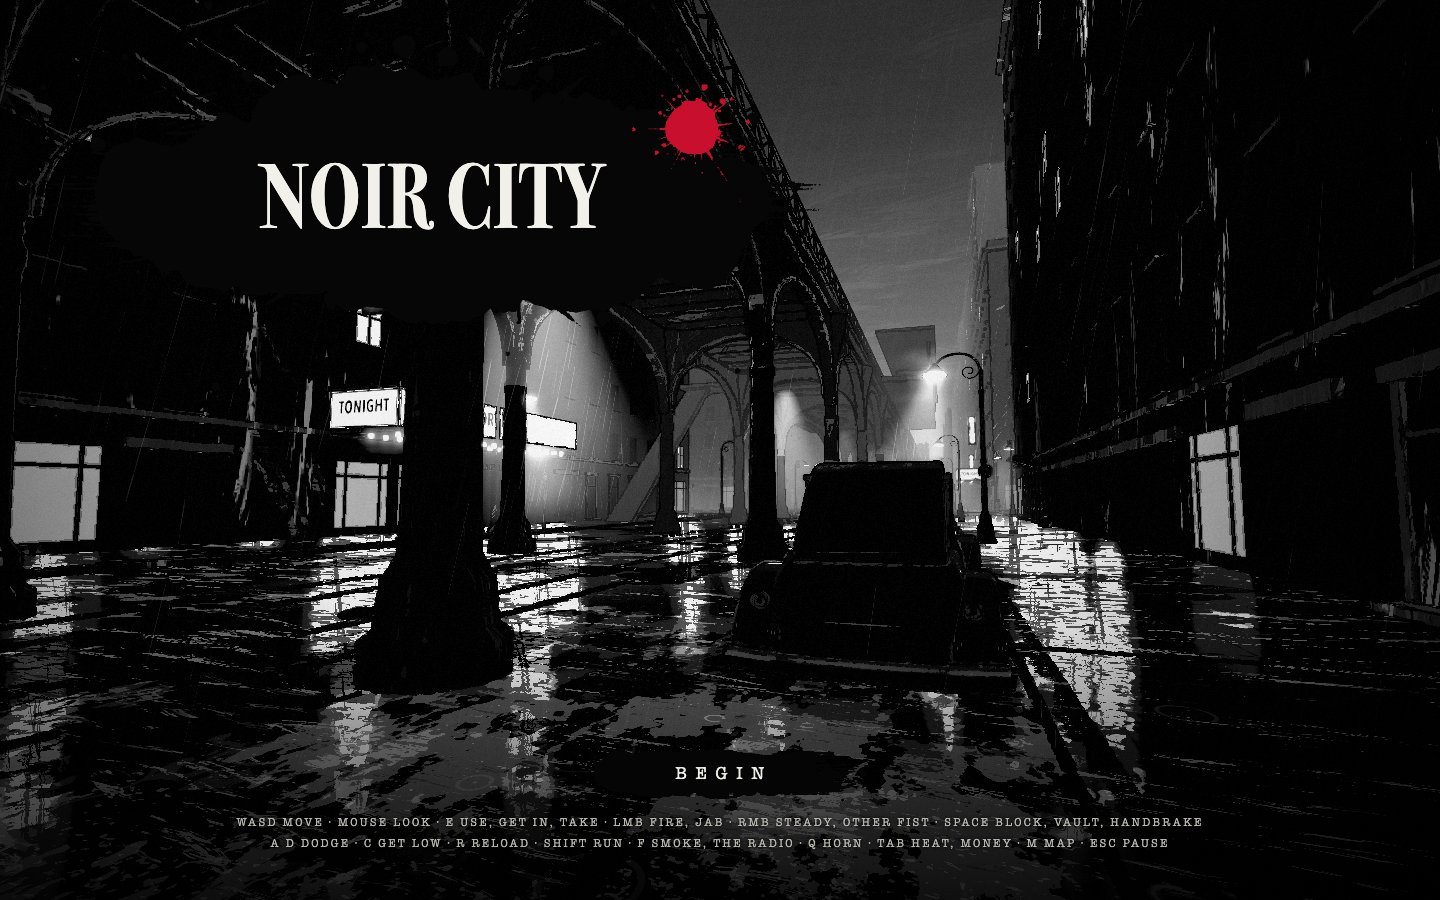
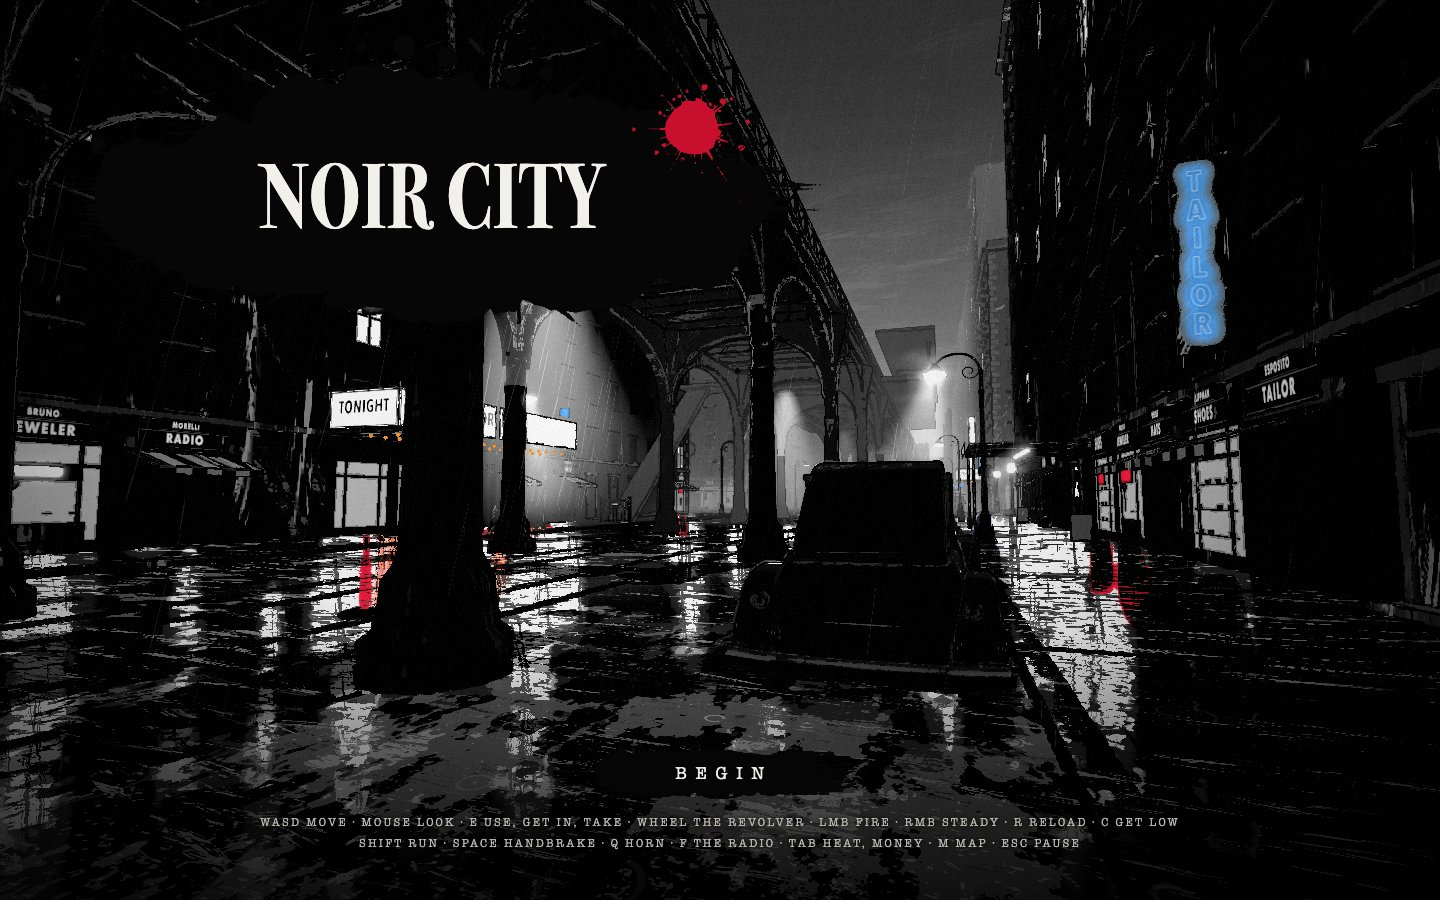
O7: the title's golden frame re-accepted, named: the city at the kerb under the el (it was the old diner street behind NOIR CITY), the keys line true of the city as built; review frame 1 re-made; NIGHT.md: game.things, game.money, the revolver, the aim help

diff --git a/docs/reports/O7.md b/docs/reports/O7.md
@@ -2,11 +2,14 @@
 
 Branch `ow/O7-night`, port 5377. Brief: `docs/briefs/O7_NIGHT.md`. The
 seams for every other lane: **`docs/seams/NIGHT.md`**. This is the FIRST pass
-of O7, launched while O2, O3, O4, O5, O6, O1b and O8 build beside it: the
-night is built against the seams their briefs name, with a stand-in of its
-own for each seam that has not landed (§5). The brief's §6 and §7 (the
-whole-game hunt over every system, the fps table, the documents) are the
-SECOND pass, when every system is in main (§7 Left).
+of O7 (two sessions: the second continued the first after it was cut off),
+built while O2, O3, O5 and O8 build beside it: the night is built against the
+seams their briefs name, with a stand-in of its own for each seam that has
+not landed (§5). In main and merged into this branch: O1 (the city), O4
+(combat), O6 (smash), O1b (the streets). The brief's §6 whole-game hunt and
+§7 "As built" are done here as far as main allows (the havoc play's first
+part, the pad through what exists, README); the rest waits for O2, O3, O5,
+O8 (§7 Left).
 
 ---------------------------------------------------------------------------
 ## 1. What the user should feel
@@ -29,8 +32,14 @@ fades with the door; the city hums and calls far off (the gasworks, the
 river, the markets, a ship, the Hill's bell on the hour, a siren a long way
 away). Into a car at no heat the night is kept, quietly (`saved`), and
 CONTINUE puts me back in that seat. Things to find: the el's stairs (ride
-the loop up front, off at any station), the phone boxes (a car brought for
-$50), the wanted board by the police headquarters (three faces a night).
+the loop up front, off at any station; chased onto it while they search, I
+am lost at the next station), the phone boxes (a car brought for $50), the
+wanted board by the police headquarters (three faces a night). The revolver
+is under my coat from the first second: the wheel (the pad's d-pad left /
+right) draws it, LMB fires, and the city answers the shot within the second
+(the shields, `Lose them.`, the paper's SHOTS FIRED); a lamp's head shot
+out pops and goes dark (O6). The title's keys are the city's as built, one
+line for the keys and one for the pad.
 
 ## 2. What exists
 
@@ -48,7 +57,8 @@ $50), the wanted board by the police headquarters (three faces a night).
 | `src/night/phone.js` | the phone box |
 | `src/night/bounty.js` | the wanted board (the board's mesh by the HQ's door, the card, the men, the pay) |
 | `src/night/standins.js` | the stand-ins (§5) and the debug bed (`?nightbed=1`) |
-| shared, marked `[O7]` | `src/main.js` (the night made, the city title at load, `night.frame`, the hold, the settings' sound), `src/game/Game.js` (`titleCam`; `save.load` and `night:start` in `start`), `src/game/SceneManager.js` (its writes are not saves: `{ scene: true }`), `src/scenes/city.js` (CONTINUE's place in the roam setup; a save's car kind), `src/input/Pad.js` (the touchpad is Tab; the d-pad's right is the radio in the car), `src/input/glyphs.js` (F in the car is the d-pad's right; the pad's keys line with map, heat and money, radio), `src/ui/Hud.js` (the settings' sound, the sound hint's text), `src/debug/Shots.js` (`shot=title` is the city's) |
+| `src/night/things.js` | `game.things` (start / line / end: the line, the mark, the money, the news, the night's record) and `game.money` (add / take on O4's wallet): `docs/THINGS_TO_DO.md`'s seams |
+| shared, marked `[O7]` | `src/main.js` (the night made, the city title at load, `night.frame`, the hold, the settings' sound), `src/game/Game.js` (`titleCam`; `save.load` and `night:start` in `start`), `src/game/SceneManager.js` (its writes are not saves: `{ scene: true }`), `src/scenes/city.js` (CONTINUE's place in the roam setup; a save's car kind), `src/input/Pad.js` (the touchpad is Tab; the d-pad's right is the radio in the car), `src/input/glyphs.js` (F in the car is the d-pad's right; the pad's keys line with map, heat and money, radio), `src/ui/Hud.js` (the settings' sound, the sound hint's text), `src/debug/Shots.js` (`shot=title` is the city's); this session: `src/scenes/city.js` (the revolver drawn and put away on foot, the seat warmed under the fade even when the title compiled the city, `gunOut` / `holster`), `src/input/Pad.js` (the d-pad's wheel, the aim help `PAD.aim`), `src/input/glyphs.js` (`PAD_KEYS` true of the city, `WHEEL`), `src/ui/kit.js` + `lettering.js` (the wheel's glyph), `src/combat/money.js` (no second money line in the city), `src/stages/noircity/parts/items.js` (O1b's Tab card handed to the night's Tab in the city), `src/game/Save.js` (v3 keeps O4's `ammo`), `tools/play.mjs` (the pad's wheel on foot: the d-pad), `tools/lib/o4_guns.mjs` (by the pad, the aim help takes the hand's error) |
 
 ## 3. The proofs (by real input; headless, muted)
 
@@ -61,7 +71,12 @@ $50), the wanted board by the police headquarters (three faces a night).
 | `o7_el.json` | at the stair's foot `E  take the el`; up front, it runs; pulls in at the next station; `E  get off`: at its stair foot, the controls mine | see §3a |
 | `o7_phone.json` | no money: the phone clicks, nothing taken; $50: `E  call for a car  $50`, `A car is coming.`; the car at the kerb by the box out of sight, `Your car.`, its ring; in: the line and the ring gone | see §3a |
 | `o7_bounty.json` | `E  the wanted board`: WANTED, three posters, the game held; E: back; the first man on his corner; the revolver and real clicks take him down; `E  collect  $150`: paid, the card | see §3a |
-| `o7_pad.json` | the pad alone: X on BEGIN; the touchpad: Tab; d-pad down: the map (held), again: closed; square: in; d-pad right: the radio; square: out, the radio gone | see §3a |
+| `o7_pad.json` | the pad alone: X on BEGIN; the touchpad: Tab; d-pad down: the map (held), again: closed; square: in; d-pad right: the radio; square: out, the radio gone; on foot d-pad right: the revolver drawn, R2 fires, d-pad left: put away | see §3a |
+| `o7_gun.json` | a new night: the revolver and 12 rounds, not in hand; the card `[WHEEL] the revolver`; the wheel: drawn (gun mode); LMB on the press, a lamp hit (O6's `shot` by `bullet`); the shields and `Lose them.` within 1.5 s; R reloads from the coat; the wheel: put away; drawn, E at the car: put away, in the seat | see §3a |
+| `o7_havoc.json` | the havoc play's first part: the revolver at Grand Ave's lamps (a head shot out: dark), the shot answered (two shields, `Lose them.`), the paper's SHOTS FIRED; into the car with the heat on (the gun away, no autosave: `heat`); off the slipway: `The river took it.`, the quay with a car, the controls mine, the heat's line kept; the search | see §3a |
+| `o7_pad_draw.json` | O4's merge's ask: the gun drawn in a fist fight by the pad alone (d-pad right): the fight over, the driver runs, 0 key or mouse events | see §3a |
+| `o7_latency.json` | the feel: M, Tab, F and a second E, key to the first frame of the act (the first E logged) | see §3a |
+| O4's `pad_1v2.json`, `pad_street.json` | the pad's medium hands in the 1v2 and the street shootout (the brief: the aim help measured by them) | see §3a |
 
 ### 3a. Results on the final code
 (filled in below as the plays run)
@@ -77,6 +92,7 @@ $50), the wanted board by the police headquarters (three faces a night).
 | `Clear.` | the heat falls to 0 | 2.6 s later, giving back the thing taken up, or nothing |
 | `A car is coming.` | the phone box's call ($50) | the car at the kerb (`Your car.`) |
 | `Your car.` | the phone's car at the kerb (its ring on the minimap and the map) | in it, or a minute |
+| any lane's thing, by `game.things.start(id, { line, at })` | the thing taken up at its place | `game.things.end(id, ...)`; under the heat's line while there is heat; a scene's entry (the quay, the hospital) keeps the heat's line |
 | a fare's, a race's, a bout's (O2, O4) | their lane's `hud.objective(text)` | their `hud.objective(null)`; under the heat's line while there is heat |
 | O1's warnings `The river.`, `The bridge is up.` | the kit's `hud.warn` (not the line) | as O1 |
 
@@ -91,10 +107,11 @@ Nothing else writes a line in the city; no line says what to do next.
 | `city_map` | `[M] the map` | after 25 s of driving, no warning | none | O1 |
 | `night_tab` | `[TAB] heat and money` | the first money, or the first `Clear.`, in a quiet second | none | O7 |
 | `night_radio` | `[F] the radio` | after 30 s at the wheel, no heat, no warning | none | O7 |
+| `city_gun` | `[WHEEL] the revolver` (the wheel's own glyph; the pad's d-pad right) | on foot after 4 s, no card up, not at the car, no heat, no warning | none (drawn, or into the car, takes it down) | O7 |
 | (O4) `fire`, `steady`, `block`, `dodge`, `crouch` | the kit's and the fight's | at the first gun / fist fight | the kit's `teach.again` after two fails | O4 |
 | (O2) a hijack's | `[E] take the car` (expected) | the first driver's door | | O2 |
 
-Seven to nine in the whole game when every lane is in; none in danger (a
+Eight to ten in the whole game when every lane is in; none in danger (a
 warning takes a card down: city.js; the night's wait for no heat and no
 warning); none twice; no key as text (the prompts' keys are on their dab).
 The fails: the river (`The river took it.`, `Into the river.`: O1), the
@@ -126,6 +143,50 @@ arrest (`Arrested.`: O3), the fall (O4's hospital): their blacks name them.
 - **The bounty board's men** stand still on their corners until O3 (no
   brain: a gunman's brain in the open city with no gun of mine would kill
   me in seconds).
+
+## 6a. Found and fixed (this session, by playing cold after main moved)
+
+- **Main had moved** (O4's combat, O1b's streets): merged in. Three
+  conflicts (Save.js, Game.js, city.js): the v3 save keeps O4's `ammo`
+  (written, loaded, a new night's empty); a bed's purse (`?start=o4`) still
+  sets its money; the kerb warmed by O1b's dressing and a save's car kind.
+- **The money told twice**: O4's wallet emitted `money` and drew its own
+  `$ 60 + 10` line, and the save's setter emitted too. Now the setter's event
+  is the one the HUD counts, and the wallet's line is not drawn in the city
+  (the beds keep it).
+- **Two Tabs**: O1b's pocket card (its stand-in "until O7's HUD") and the
+  night's Tab both came up. In the city the night's Tab has the pockets'
+  lines (rounds, bottles, matchbooks); O1b's card stays for the beds.
+- **The matchbooks on the pause card were the stand-in's**: they are O1b's
+  six now (the bars' steps, `save.flags.matchbooks`), their names on the
+  covers; O5's ids join them.
+- **Two newses**: the night's news stand-in shadowed O1b's (its paper read
+  strings where O1b keeps records). Dropped; O1b's `newsOf` is the news.
+- **The first E into the car stalled a frame 126-160 ms**: the title's
+  backdrop compiles the city at load (`stage._compiled`), so city.js skipped
+  O1b's seat warm (keyed on the same flag) and `TailScreen` was made in the
+  E frame. The seat has its own flag now and the city's programs are run
+  again with the seat in (cached ones cost nothing): no program is made at
+  E any more. One long frame is still measured at the first E on this
+  loaded machine (75-140 ms, no new program; the second E is 13-31 ms):
+  Left.
+- **The title promised verbs the city does not have** (the cold play's
+  finding 2) and listed M twice: one line for the keys, one for the pad,
+  each true of the city as built; the fist fight's verbs come back on it
+  when O3 brings fights into the city.
+- **No gun in the city**, though the standard's man has a revolver under his
+  arm, the bounty board's men could only be taken down by a tool's equip, and
+  `LMB fire` was untrue: a new night gives the revolver and a dozen rounds,
+  the wheel draws it (the pad's d-pad left / right), into the car or the
+  river puts it away; the stand-in heat hears a shot (heat 2 within the
+  second); the bounty play draws it by the wheel now.
+- **The pad could not draw a gun in a fist fight** (O4's merge): the d-pad's
+  left / right are the wheel on foot with a gun of mine (`o7_pad_draw`).
+- **The heat's line vanished on the quay after the river** (a scene's entry
+  cleared it while the heat stood): kept now (`o7_havoc`).
+- **The el** loses a search at the next station (THINGS_TO_DO §6); **the
+  things' seams** (`game.things`, `game.money`) are in, the phone and the
+  bounty use them.
 
 ## 7. Left (most felt first)
 

diff --git a/docs/seams/NIGHT.md b/docs/seams/NIGHT.md
@@ -125,6 +125,45 @@ z, yaw }, car: { kind, x, z, yaw, damage } | null, inCar, hour } }`.
   on the man so the night sees him fall); **O5**: the board inside the
   station with the desk.
 
+## 5a. Things to do, any lane's: `game.things` and `game.money` (`src/night/things.js`)
+
+The seams of `docs/THINGS_TO_DO.md`. A thing is only ever started by its
+own place when the player walks up to it (nothing lists, nothing says go).
+
+```js
+G.things.start(id, { line, at })   // taken up: the line (under the heat's), the mark
+                                   // (at: { x, z } or () => { x, z }: the minimap's ring, the map's)
+G.things.line(id, text)            // the line changed (a lap, the place)
+G.things.end(id, { result, money, news, weight, where })
+                                   // put down: the line and the mark gone; money +/- through
+                                   // O4's wallet (the HUD counts it in); O1b's news.say;
+                                   // the night's record save.flags.night[id] = { result, hour }
+G.things.done(id)                  // that record or null (a cleared hideout stays cleared)
+G.things.active                    // Map id -> opts
+G.money.add(n, why)  G.money.take(n, why) -> bool  G.money.n   // O4's earn / pay
+```
+The phone's car and the bounty's pay use them. Events `things:start`,
+`things:end`.
+
+## 5b. The revolver under the coat (`src/scenes/city.js`, marked `[O7]`)
+
+A new night in the city (BEGIN) gives `save.inventory` the revolver and
+`save.ammo` `{ revolver: 12, revolverIn: 6 }` (OPEN_WORLD §1). On foot the
+mouse wheel (the pad's d-pad left / right, a notch a press) turns O4's
+`arms(G).next` (fists, then what I own): drawn, the controller's gun mode;
+put away, the walk. Getting into a car or into the river puts it away. The
+card `city_gun` (`[WHEEL] the revolver`) once, on foot, in a quiet second.
+`city:arms` `{ gun }` on each change. In a fist fight O4's crowd takes the
+wheel (`Crowd.draw`).
+
+## 5c. The pad's aim help (`src/input/Pad.js`, `PAD.aim`)
+
+L2 raised with a gun, by the pad: the man nearest the sight within
+`cone` rad (or `width` m of his chest at his distance), with a clear line,
+is eased toward: `snap` of the way on the raise, then `rate` of what is
+left a second (at most `max` rad/s); a stick pushed past `stick` away from
+him is never pulled. `pad.aimed` / `pad.aimedHood` name him (the tools).
+
 ## 6. The stand-ins (until the lane merges; `src/night/standins.js`)
 
 Installed only when the real seam is absent; dropped at O7's fix pass.
@@ -132,8 +171,8 @@ Installed only when the real seam is absent; dropped at O7's fix pass.
 | seam | owner | the stand-in |
 | --- | --- | --- |
 | `game.police` `{ heat, searching, units, on('heat', fn), set(level), lost() }` | O3 | a heat that falls by itself (14 s unseen: the search; 9 s searching: a shield less) |
-| `game.crime.emit(kind, point, by)` | O3 | raises the stand-in's heat to the kind's level (punch 1, hijack 1, shot 2, death 3, cop 4) |
-| `game.news` `{ say(line), last, lines }` | O1b | keeps the lines (the bounty says its takedowns there) |
+| `game.crime.emit(kind, point, by)` | O3 | raises the stand-in's heat to the kind's level (punch 1, hijack 1, shot 2, death 3, cop 4); until O3's witnesses a shot in the city (`shot`) and O4's crowd's `crime` raise it too |
+| `game.news` | O1b | merged: O1b's own (`world/items.js` `newsOf`), no stand-in |
 | `save.money`, `save.matchbooks`, `save.garage` | O4, O5, O2 | the save's own fields (no stand-in needed) |
 
 The debug bed: `?nightbed=1` (never in a normal run): 1-5 the heat, 0 none,
